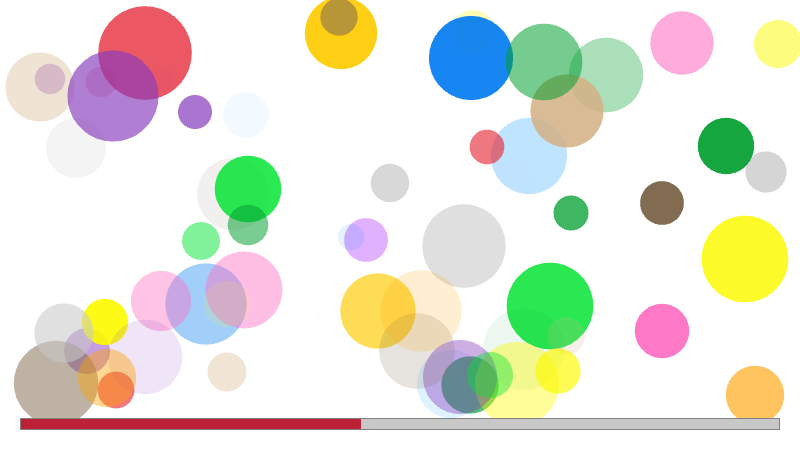
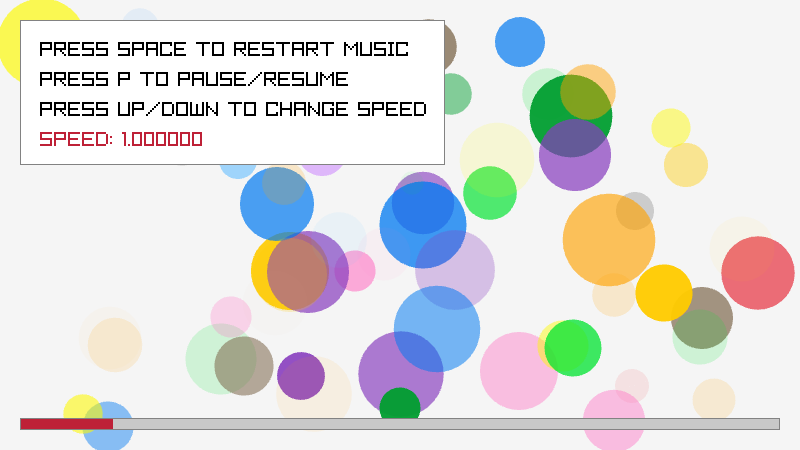
Fix example/audio/audio_module_player.c help instructions and small bug (#3272)
* Fix example/audio/audio_module_player.c help instructions and small bug

* Update example/audio/audio_module_player.png screenshot

diff --git a/examples/audio/audio_module_playing.c b/examples/audio/audio_module_playing.c
@@ -79,6 +79,7 @@ int main(void)
         {
             StopMusicStream(music);
             PlayMusicStream(music);
+            pause = false;
         }
 
         // Pause/Resume music playing
@@ -133,6 +134,14 @@ int main(void)
             DrawRectangle(20, screenHeight - 20 - 12, screenWidth - 40, 12, LIGHTGRAY);
             DrawRectangle(20, screenHeight - 20 - 12, (int)timePlayed, 12, MAROON);
             DrawRectangleLines(20, screenHeight - 20 - 12, screenWidth - 40, 12, GRAY);
+
+            // Draw help instructions
+            DrawRectangle(20, 20, 425, 145, WHITE);
+            DrawRectangleLines(20, 20, 425, 145, GRAY);
+            DrawText("PRESS SPACE TO RESTART MUSIC", 40, 40, 20, BLACK);
+            DrawText("PRESS P TO PAUSE/RESUME", 40, 70, 20, BLACK);
+            DrawText("PRESS UP/DOWN TO CHANGE SPEED", 40, 100, 20, BLACK);
+            DrawText(TextFormat("SPEED: %f", pitch), 40, 130, 20, MAROON);
 
         EndDrawing();
         //----------------------------------------------------------------------------------
